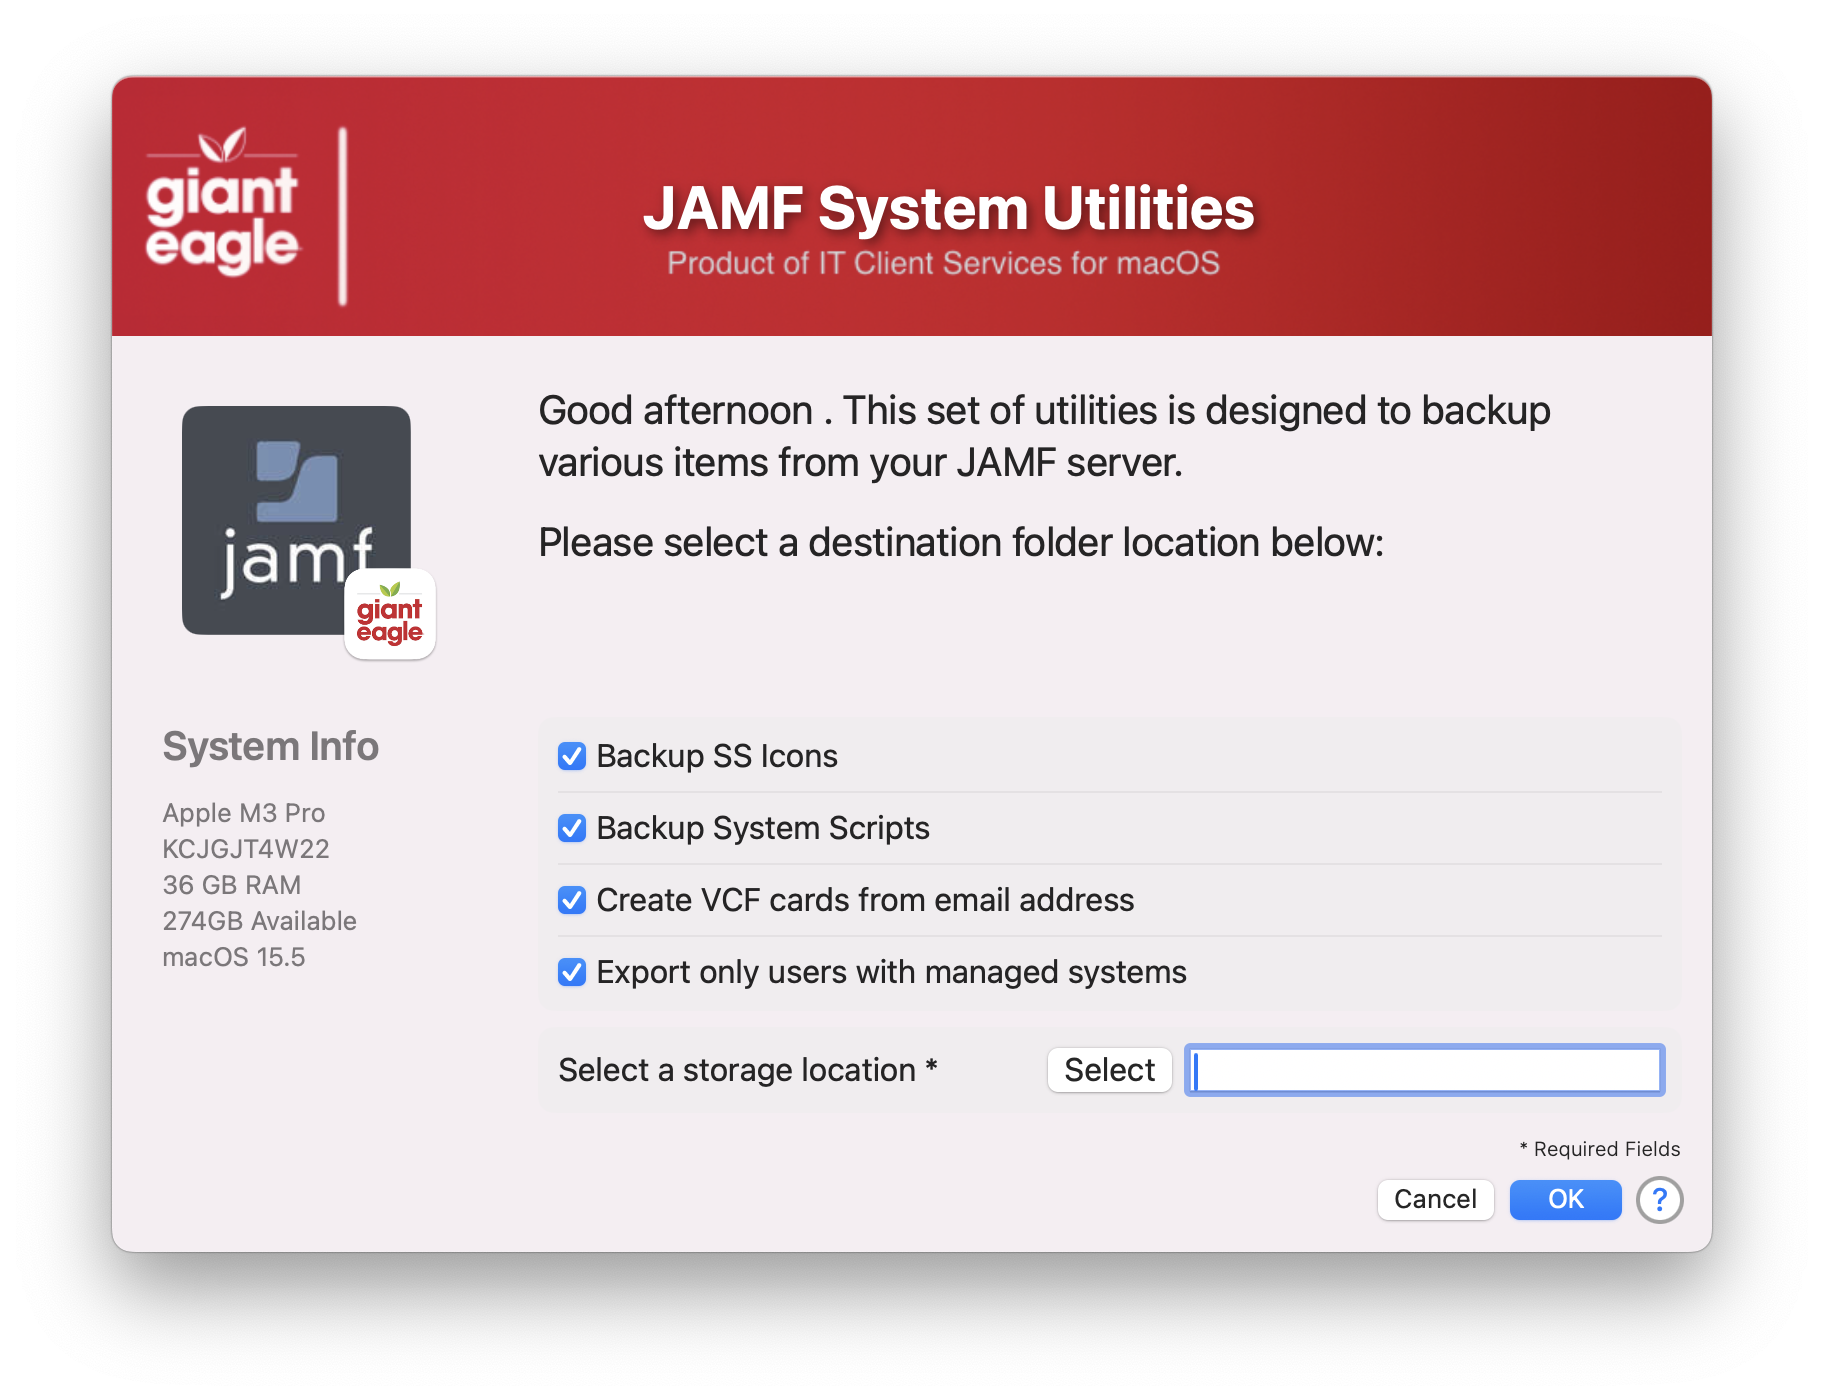
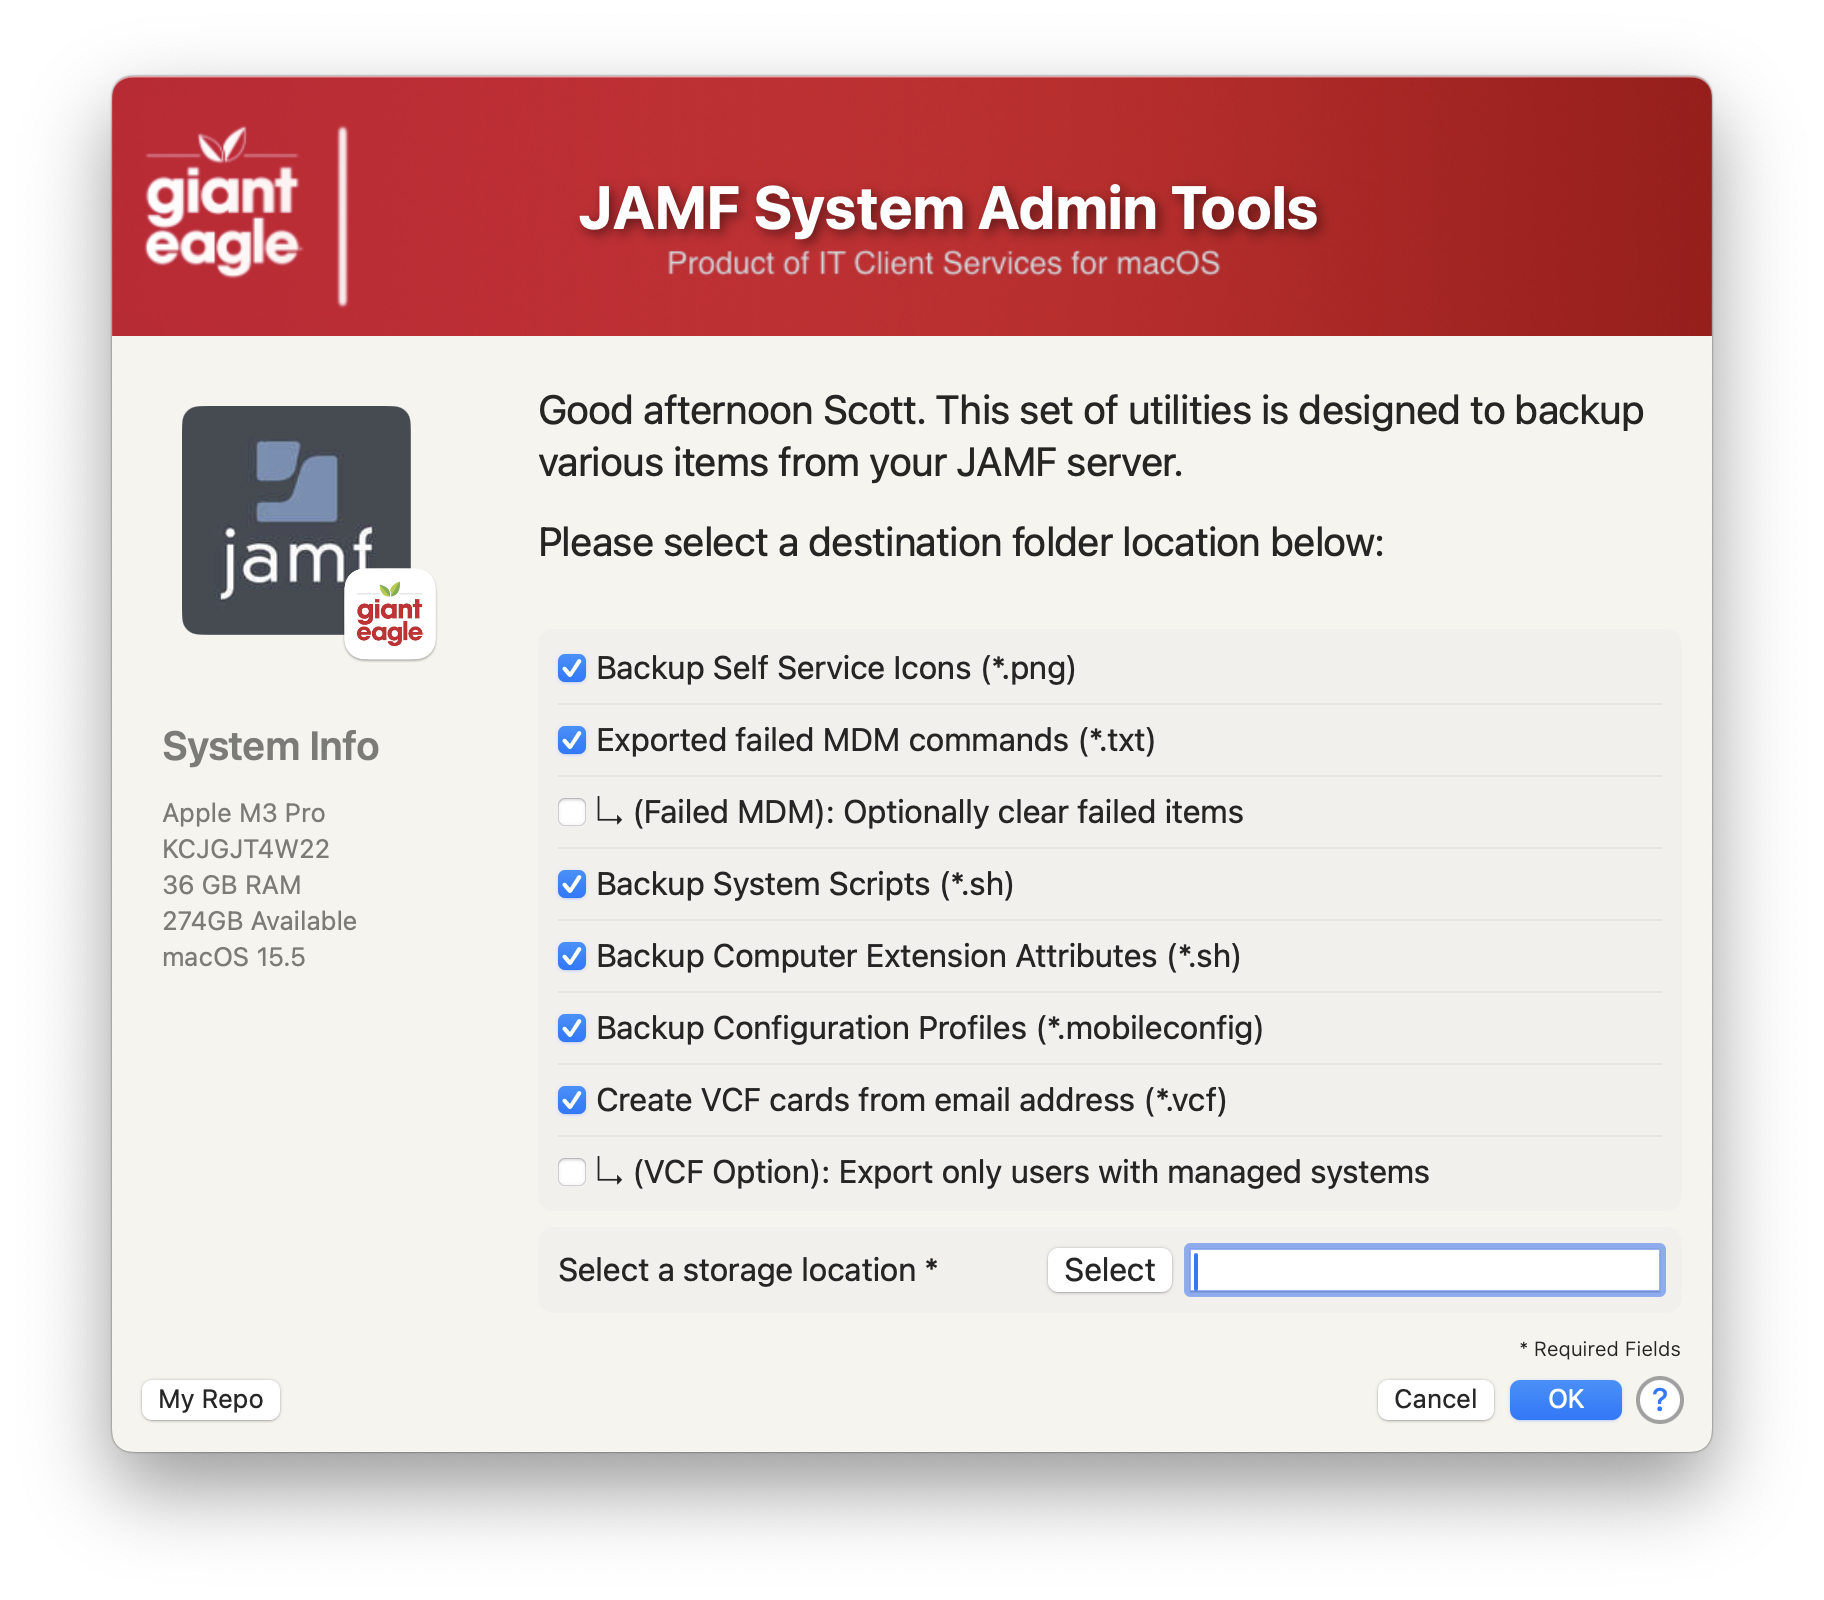
JAMF System Utilities using SwiftDialog

Changed region(s): [[0.0625, 0.0921, 0.9375, 0.7064], [0.0625, 0.4607, 0.9375, 0.9214], [0.0625, 0.0307, 0.9375, 0.0614]]

diff --git a/JAMFSystemUtilities/README.md b/JAMFSystemUtilities/README.md
@@ -2,30 +2,54 @@
 
 This script is designed to extract all of several items from your JAMF server.  Why do you want to do this?
 
-1.  Make a backup of your scripts & icons in case your existing backup files is missing/corrupted (or you don't have one!)
-2.  You inhereited a JAMF server from another person, and this can do a "brain dump" so you can review the scripts.
+1.  Make a backup of your scripts, configurations & icons in case your existing backup files is missing/corrupted (or you don't have one!)
+2.  You inhereited a JAMF server from another person, and this can do a "brain dump" so you can review the settings.
 3.  Why not?  It is another example of what you can do with API scripts..
 
 The following items are available to be backed up:
 
-1.  System Scripts - Everything that is stored in Settings > Scripts
-2.  Self Service Icons - Great to have a back when JAMF starts showing generic icons in Self Service.
-3.  Export Emails to VCF - Export all of the email addresses to a VCF file, which can be imported into Contacts.app or other applications.
+1.  Self Service Icons - Great to have a back when JAMF starts showing generic icons in Self Service.
+2.  Failed MDM Commands - Export systems that have failed MDM commands so you can review them and optionally clear the failures
+3.  System Scripts - Everything that is stored in Settings > Scripts
+4.  Computer Extension Attributes - Export all of the computer extension attributes
+5.  Configuration Profiles - Export all of the configuration profiles to .mobileconfig files
+6.  Export Emails to VCF - Export all of the email addresses to a VCF file, which can be imported into Contacts.app or other applications.
+
+This script is fully multitasked, so will execute each task pretty quickly.  It will create the folder structure for you and then download the items to the appropriate folders. 
+
+**File Formats**
+
+1. Icons have a .png extension.
+2. Scripts have a .sh extension.
+3. Computer Extension Attributes have a .sh extension.
+4. Configuration Profiles have a .mobileconfig extension.
+5. Emails have a .vcf extension.
+
+**Folder Structure**
+
+The subfolder locations can be customized by editing the ```function check_directories```
+
+------------------------------------
 
 Welcome Screen
-
 ![Welcome](/JAMFSystemUtilities/JAMFSystemUtilities-Welcome.png)
 
 Backup SS Icons Process
-
 ![](/JAMFSystemUtilities/JAMFSystemUtilities-BackupIcons.png)
 
-Backup System Scripts Process
+Export Failed MDM Commands Process
+![](/JAMFSystemUtilities/JAMFSystemUtilities-failedmdm.png)
 
-![](/JAMFSystemUtilities/JAMFSystemUtilities-Script-Progress.png)
+Backup System Scripts Process
+![](/JAMFSystemUtilities/JAMFSystemUtilities-Scripts.png)
+
+Backup Computer Extension Attributes Process
+![](/JAMFSystemUtilities/JAMFSystemUtilities-ComputerEA.png)
+
+Backup Configuration Profiles Process
+![](/JAMFSystemUtilities/JAMFSystemUtilities-Profiles.png)
 
 Export Emails Process
-
-![](/JAMFSystemUtilities/JAMFSystemUtilities-Email-Progress.png)
+![](/JAMFSystemUtilities/JAMFSystemUtilities-Contacts.png)
 
 ##### _v1.0 - Initial Commit_
